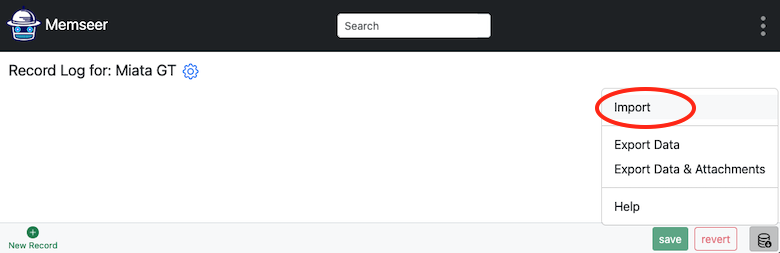
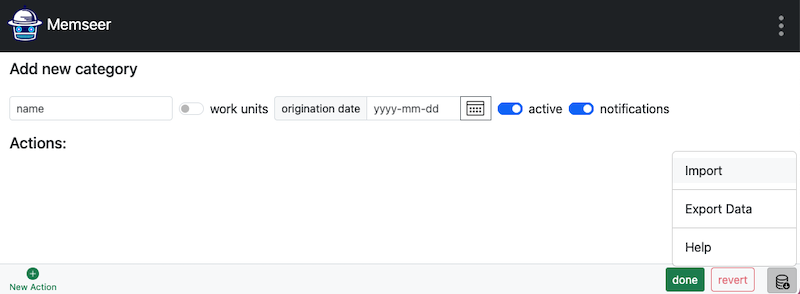
Update picture "new category import":data management

diff --git a/docs/guides/data_management.md b/docs/guides/data_management.md
@@ -44,9 +44,7 @@ In order to import a brand-new category, go to the main dashboard, scroll to the
 
 ![](../../assets/images/guides/import_export/add_new_category.png)
 
-Next, write the name of the new category and click “save”. You will be redirected to the main dashboard where you will go back and click on the new category name. You will land on the record log for the new category. Which is currently empty.
-
-![](../../assets/images/guides/import_export/update_category.png)
+Next, click on "Import".
 
 
 Next, select the database icon and click on the "Import" button in the bottom right-hand corner.
